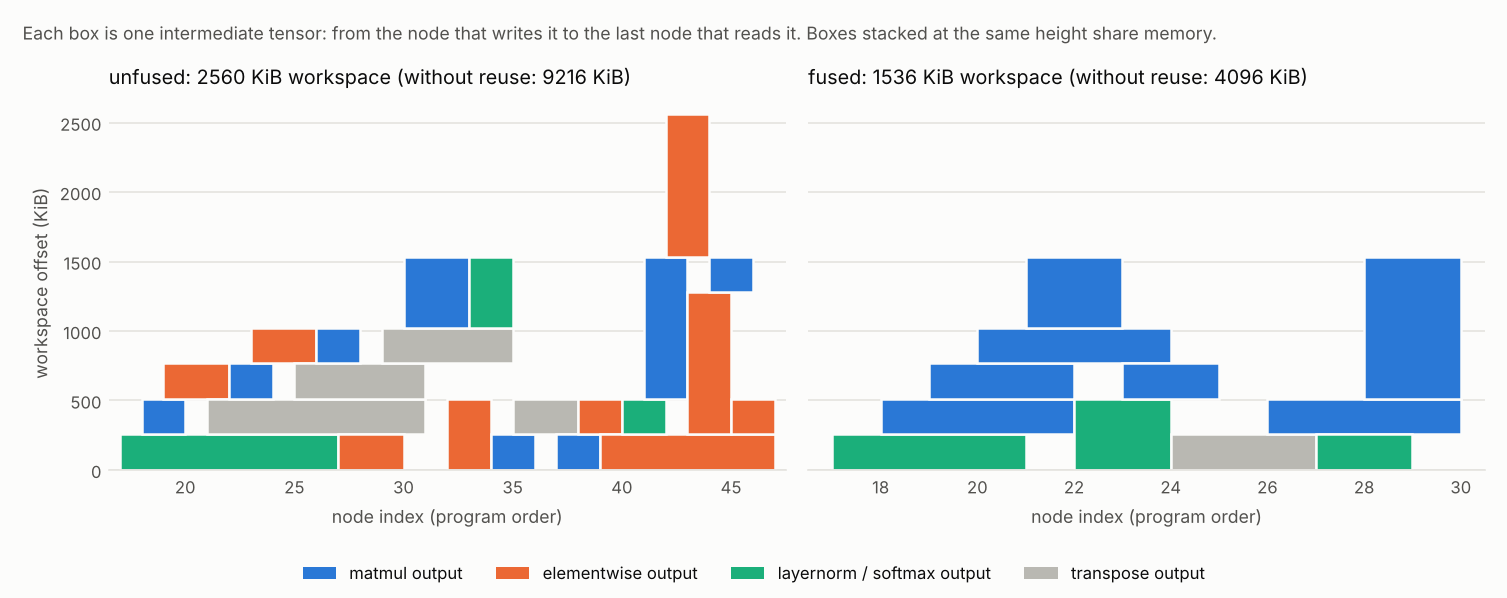
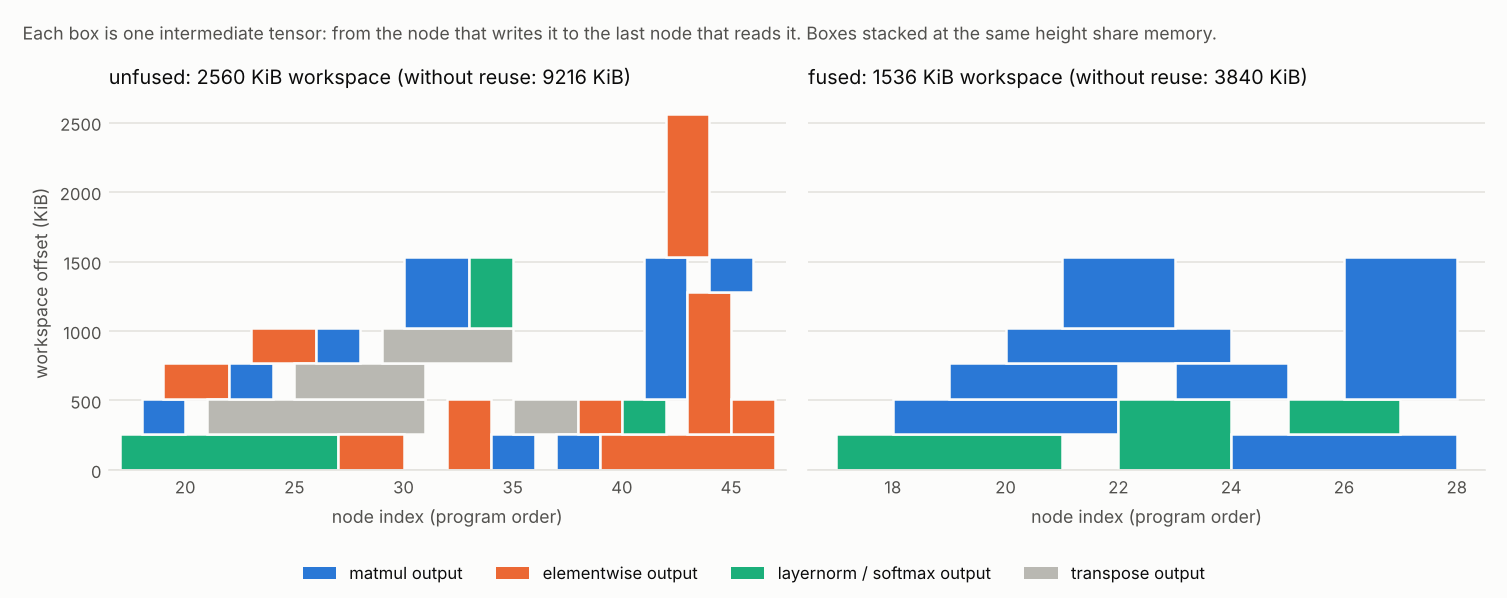
Output-side layout folding: matmul stores its result already permuted (removes attention's head-merge transpose)

diff --git a/tinyfuse/codegen/c_backend.py b/tinyfuse/codegen/c_backend.py
@@ -22,7 +22,7 @@ import numpy as np
 
 from ..ir import Graph, Node
 from ..ops import (ELEMENTWISE_ARITY, broadcast_strides, contiguous_strides,
-                   matmul_operand_shapes, numel)
+                   matmul_operand_shapes, matmul_shape, numel)
 from .memory import MemoryPlan, plan_memory
 
 
@@ -363,12 +363,12 @@ class CodeGen:
         w.open("else if (full)")
         w("#pragma GCC unroll 16")
         w("for (int r = 0; r < MR; ++r)")
-        w("    for (int v = 0; v < NV; ++v) acc[r][v] = *(const tf_vf*)(Cb + (long)(ii + r) * N + jj + v * VW);")
+        w("    for (int v = 0; v < NV; ++v) acc[r][v] = *(const tf_vf*)(Cb + (long)(ii + r) * SCM + jj + v * VW);")
         w.close()
         w.open("else")
         w("memset(tmp, 0, sizeof(tmp));")
         w("for (int r = 0; r < hgt; ++r)")
-        w("    for (int c = 0; c < wdt; ++c) tmp[r * NR + c] = Cb[(long)(ii + r) * N + jj + c];")
+        w("    for (int c = 0; c < wdt; ++c) tmp[r * NR + c] = Cb[(long)(ii + r) * SCM + jj + c];")
         w("for (int r = 0; r < MR; ++r)")
         w("    for (int v = 0; v < NV; ++v) acc[r][v] = *(const tf_vf*)(tmp + r * NR + v * VW);")
         w.close()
@@ -386,13 +386,13 @@ class CodeGen:
         w.open("if (full)")
         w("#pragma GCC unroll 16")
         w("for (int r = 0; r < MR; ++r)")
-        w("    for (int v = 0; v < NV; ++v) *(tf_vf*)(Cb + (long)(ii + r) * N + jj + v * VW) = acc[r][v];")
+        w("    for (int v = 0; v < NV; ++v) *(tf_vf*)(Cb + (long)(ii + r) * SCM + jj + v * VW) = acc[r][v];")
         w.close()
         w.open("else")
         w("for (int r = 0; r < MR; ++r)")
         w("    for (int v = 0; v < NV; ++v) *(tf_vf*)(tmp + r * NR + v * VW) = acc[r][v];")
         w("for (int r = 0; r < hgt; ++r)")
-        w("    for (int c = 0; c < wdt; ++c) Cb[(long)(ii + r) * N + jj + c] = tmp[r * NR + c];")
+        w("    for (int c = 0; c < wdt; ++c) Cb[(long)(ii + r) * SCM + jj + c] = tmp[r * NR + c];")
         w.close()
 
     @staticmethod
@@ -400,7 +400,7 @@ class CodeGen:
         """Apply the epilogue to rows i0..i0+mb, columns [col_lo, col_hi)."""
         w.open("for (int r = 0; r < mb; ++r)")
         w("const long i = i0 + r;")
-        w("float* restrict crow = Cb + i * N;")
+        w("float* restrict crow = Cb + i * SCM;")
         w("#pragma omp simd")
         w.open(f"for (long j = {col_lo}; j < {col_hi}; ++j)")
         in_exprs = [f"eb{k}[{_index(['i', 'j'], st[-2:])}]" for k, st in enumerate(ex_strides)]
@@ -411,14 +411,14 @@ class CodeGen:
         w.close()
         w.close()
 
-    def _mm_serial_body(self, w, batch_dims, a_batch, b_batch, ex_strides, epilogue):
+    def _mm_serial_body(self, w, batch_dims, a_batch, b_batch, c_batch, ex_strides, epilogue):
         BATCH = numel(batch_dims)
         w("float* restrict Bp = scratch;")
         w("float* restrict Ap = scratch + KB * NB;")
         w.open(f"for (long bt = 0; bt < {BATCH}L; ++bt)")
         w(f"const float* restrict Ab = A + {_batch_offset(a_batch, batch_dims)};")
         w(f"const float* restrict Bb = B + {_batch_offset(b_batch, batch_dims)};")
-        w("float* restrict Cb = C + bt * (long)(M * N);")
+        w(f"float* restrict Cb = C + {_batch_offset(c_batch, batch_dims)};")
         for k, st in enumerate(ex_strides):
             w(f"const float* restrict eb{k} = e{k} + {_batch_offset(st[:-2], batch_dims)};")
         w("(void)Ab; (void)Bb;")
@@ -453,7 +453,7 @@ class CodeGen:
         w.close()  # bt
         w.close()  # fn
 
-    def _mm_parallel_body(self, w, BATCH, batch_dims, a_batch, b_batch, ex_strides,
+    def _mm_parallel_body(self, w, BATCH, batch_dims, a_batch, b_batch, c_batch, ex_strides,
                           epilogue, nthreads, grp):
         """Barrier-free OpenMP matmul.  A unit = (batch, column block, group of
         ``grp`` row blocks) is computed start to finish by one thread, which
@@ -472,7 +472,7 @@ class CodeGen:
         w.open("for (int g = 0; g < NG; ++g)")
         w(f"const float* restrict Ab = A + {_batch_offset(a_batch, batch_dims)};")
         w(f"const float* restrict Bb = B + {_batch_offset(b_batch, batch_dims)};")
-        w("float* restrict Cb = C + bt * (long)(M * N);")
+        w(f"float* restrict Cb = C + {_batch_offset(c_batch, batch_dims)};")
         for k, st in enumerate(ex_strides):
             w(f"const float* restrict eb{k} = e{k} + {_batch_offset(st[:-2], batch_dims)};")
         w("(void)Ab; (void)Bb;")
@@ -509,8 +509,17 @@ class CodeGen:
         a, b = n.inputs[0], n.inputs[1]
         extra = n.inputs[2:]
         epilogue = n.attrs.get("epilogue") if n.op == "fused_matmul" else None
-        out = n.shape
         sa, sb = matmul_operand_shapes(n)
+        out = matmul_shape(sa, sb)                    # logical result shape
+        c_perm = n.attrs.get("c_perm") if n.op == "fused_matmul" else None
+        if c_perm:   # result stored permuted: stride of logical dim k in memory
+            stored = list(contiguous_strides(n.shape))
+            c_str = [stored[list(c_perm).index(k)] for k in range(len(out))]
+        else:
+            c_str = list(contiguous_strides(out))
+        assert c_str[-1] == 1
+        SCM = c_str[-2]
+        c_batch = c_str[:-2]
         a_view, b_view = n.attrs.get("a_view"), n.attrs.get("b_view")
         a_str = a_view[1] if a_view else contiguous_strides(sa)
         b_str = b_view[1] if b_view else contiguous_strides(sb)
@@ -549,19 +558,19 @@ class CodeGen:
         w.open(f"static void {name}({', '.join(params)})")
         w(f"enum {{ M = {M}, N = {N}, K = {K}, MB = {MB}, NB = {NB}, KB = {KB}, "
           f"MR = {MR}, NV = {NV}, NR = {NR}, VW = {vw} }};")
-        w(f"const long SAM = {SAM}L, SAK = {SAK}L, SBK = {SBK}L, SBN = {SBN}L;  "
-          f"/* operand strides (views) */")
+        w(f"const long SAM = {SAM}L, SAK = {SAK}L, SBK = {SBK}L, SBN = {SBN}L, SCM = {SCM}L;  "
+          f"/* operand / result strides (views) */")
         if par:
             # group row blocks per unit so B is packed once per group, keeping
             # >= 2 units per thread where possible
             nib, njb = -(-M // MB), -(-N // NB)
             grp = max(1, (BATCH * nib * njb) // (2 * nthreads))
             grp = min(grp, nib)
-            self._mm_parallel_body(w, BATCH, batch_dims, a_batch, b_batch, ex_strides,
+            self._mm_parallel_body(w, BATCH, batch_dims, a_batch, b_batch, c_batch, ex_strides,
                                    epilogue, nthreads, grp)
             w.close()  # fn
         else:
-            self._mm_serial_body(w, batch_dims, a_batch, b_batch, ex_strides, epilogue)
+            self._mm_serial_body(w, batch_dims, a_batch, b_batch, c_batch, ex_strides, epilogue)
         args = [self.buf(a), self.buf(b), self.buf(n)] + [self.buf(e) for e in extra] + ["scratch"]
         return Kernel(name, w.text(), args, scratch=scratch)
 

diff --git a/tests/test_pass_layout_folding.py b/tests/test_pass_layout_folding.py
@@ -86,3 +86,50 @@ def test_folded_matmuls_match_numpy(case, opts, rng):
     xs = [rand(rng, *s) for s in shapes]
     ref = tf.run_graph(tf.trace(fn, *shapes), xs)[0]
     assert_close(f(*xs), ref)
+
+
+def test_output_transpose_folds_into_store():
+    check_pass(lambda a, b: (a @ b).transpose(1, 0, 2), [(2, 3, 4), (2, 4, 5)], [layout_folding],
+               before="""
+graph f(%a: f32[2,3,4], %b: f32[2,4,5]) {
+  %0: f32[2,3,5] = matmul(%a, %b)
+  %1: f32[3,2,5] = transpose(%0) {perm=[1,0,2]}
+  return %1
+}""", after="""
+graph f(%a: f32[2,3,4], %b: f32[2,4,5]) {
+  %0: f32[3,2,5] = fused_matmul(%a, %b) {c_perm=[1,0,2]}
+  return %0
+}""")
+
+
+def test_output_transpose_not_folded_when_last_axis_moves_or_value_shared():
+    g = tf.trace(lambda a, b: (a @ b).T, (3, 4), (4, 5))          # moves the last axis
+    assert layout_folding(g) is False
+    g = tf.trace(lambda a, b: ((a @ b).transpose(1, 0, 2), a @ b), (2, 3, 4), (2, 4, 5))
+    from tinyfuse.passes import common_subexpression_elimination
+    common_subexpression_elimination(g)
+    assert layout_folding(g) is False                             # matmul has 2 users
+
+
+OUT_CASES = [
+    (lambda a, b: (a @ b).transpose(1, 0, 2), [(4, 7, 9), (4, 9, 11)]),
+    (lambda a, b: ((a @ b) * 2.0 + 1.0).transpose(1, 0, 2), [(3, 13, 5), (3, 5, 17)]),
+    (lambda a, b: (a @ b).transpose(1, 0, 2).reshape(13, 3 * 17) @ tf.constant(np.ones((51, 4))),
+     [(3, 13, 5), (3, 5, 17)]),
+    (lambda a, b: (a @ b).transpose(2, 1, 0, 3), [(2, 3, 5, 6), (2, 3, 6, 7)]),
+]
+
+
+@pytest.mark.parametrize("case", range(len(OUT_CASES)))
+@pytest.mark.parametrize("opts", ["default", "tiny", "tiny-parallel"])
+def test_output_folded_matmuls_match_numpy(case, opts, rng):
+    fn, shapes = OUT_CASES[case]
+    tile = MatmulTile(mb=6, nb=VW, kb=4, mr=3, nv=1)
+    o = {"default": None,
+         "tiny": CodegenOptions(vector_width=VW, default_tile=tile),
+         "tiny-parallel": CodegenOptions(vector_width=VW, default_tile=tile, parallel=True,
+                                         max_threads=3)}[opts]
+    f = tf.compile(fn, *shapes, options=o)
+    assert "transpose" not in f.optimized.op_counts()
+    xs = [rand(rng, *s) for s in shapes]
+    assert_close(f(*xs), tf.run_graph(tf.trace(fn, *shapes), xs)[0])

diff --git a/tinyfuse/passes/layout_folding.py b/tinyfuse/passes/layout_folding.py
@@ -16,6 +16,10 @@ Example (attention scores)::
     %s  = fused_matmul(%q, %kt)
  ->
     %s  = fused_matmul(%q, %k) {b_view=f32[4,64,64] strides [64,1,256]}
+
+A transpose of a matmul's *output* that keeps the last axis last is folded
+the other way: the matmul stores its result already permuted (``c_perm``),
+which removes attention's head-merge transpose after ``att @ v``.
 """
 
 from __future__ import annotations
@@ -43,8 +47,35 @@ def resolve_view(x: Node) -> Tuple[Node, View]:
     return x, (tuple(x.shape), contiguous_strides(x.shape))
 
 
-def layout_folding(g: Graph) -> bool:
+def _fold_output_transposes(g: Graph) -> bool:
+    """transpose(fused_matmul) -> fused_matmul that stores its result already
+    permuted, when the permutation keeps the last axis last (so the inner,
+    vectorised stores stay contiguous)."""
+    users = g.users()
+    outs = g.output_ids()
     changed = False
+    for i, t in enumerate(g.nodes):
+        if t.op != "transpose":
+            continue
+        m = t.inputs[0]
+        perm = tuple(t.attrs["perm"])
+        if m.op not in ("matmul", "fused_matmul") or m.id in outs or m.attrs.get("c_perm"):
+            continue
+        if {u.id for u in users.get(m.id, [])} != {t.id} or perm[-1] != len(perm) - 1:
+            continue
+        attrs = dict(m.attrs)
+        attrs.setdefault("epilogue", None)
+        attrs["c_perm"] = perm
+        new = Node("fused_matmul", list(m.inputs), attrs)
+        assert new.shape == t.shape
+        g.nodes[i] = new
+        g.replace_all_uses(t, new)
+        changed = True
+    return changed
+
+
+def layout_folding(g: Graph) -> bool:
+    changed = _fold_output_transposes(g)
     for i, n in enumerate(g.nodes):
         if n.op not in ("matmul", "fused_matmul"):
             continue

diff --git a/tinyfuse/ops.py b/tinyfuse/ops.py
@@ -410,10 +410,19 @@ def apply_view(x: np.ndarray, view) -> np.ndarray:
                                            strides=[st * x.itemsize for st in strides])
 
 
+def _check_c_perm(perm, rank):
+    if perm is None:
+        return
+    if sorted(perm) != list(range(rank)) or perm[-1] != rank - 1:
+        raise ShapeError(f"c_perm {perm} must permute {rank} dims and keep the last one last")
+
+
 def _fused_mm_infer(s, a):
     sa = view_shape(s[0], a.get("a_view"))
     sb = view_shape(s[1], a.get("b_view"))
     out = matmul_shape(sa, sb)
+    perm = a.get("c_perm")
+    _check_c_perm(perm, len(out))
     ep = a.get("epilogue")
     if ep is not None:
         check_program(ep, len(s) - 2, allow_acc=True)
@@ -422,19 +431,19 @@ def _fused_mm_infer(s, a):
                 raise ShapeError(f"epilogue input {extra} does not broadcast to {out}")
     elif len(s) != 2:
         raise ShapeError("fused_matmul without epilogue takes exactly 2 inputs")
-    return out
+    return tuple(out[p] for p in perm) if perm else out
 
 
 def _fused_mm_eval(xs, a):
     acc = _f32(np.matmul(apply_view(xs[0], a.get("a_view")), apply_view(xs[1], a.get("b_view"))))
     ep = a.get("epilogue")
-    if ep is None:
-        return acc
-    return eval_program(ep, xs[2:], acc.shape, acc=acc)
+    res = acc if ep is None else eval_program(ep, xs[2:], acc.shape, acc=acc)
+    perm = a.get("c_perm")
+    return np.ascontiguousarray(np.transpose(res, perm)) if perm else res
 
 
 register(OpDef("fused_matmul", None, _fused_mm_infer, _fused_mm_eval,
-               attr_names=("epilogue", "a_view", "b_view")))
+               attr_names=("epilogue", "a_view", "b_view", "c_perm")))
 
 
 def _fused_reduce_infer(s, a):

diff --git a/tests/test_models.py b/tests/test_models.py
@@ -53,8 +53,9 @@ def test_transformer_fused_structure():
     # their head-split operands through strided views)
     assert c["fused_matmul"] == 8 and "matmul" not in c
     assert c.get("fused_elementwise", 0) == 0
-    # only the head-merge transpose after att@v is still materialised
-    assert c["transpose"] == 1
+    # no layout op is materialised: head split folded into operand views,
+    # head merge folded into att@v's store
+    assert "transpose" not in c and "reshape" not in c
     assert not any(op in c for op in ("add", "mul", "gelu"))
     unf = tf.compile(blk, pipeline="unfused", **sh)
     assert unf.module.gen.plan.ws_size > f.module.gen.plan.ws_size

diff --git a/tinyfuse/passes/matmul_fusion.py b/tinyfuse/passes/matmul_fusion.py
@@ -27,8 +27,8 @@ def matmul_epilogue_fusion(g: Graph) -> bool:
     replace: Dict[int, Node] = {}   # last chain node -> fused node
     removed = set()
     for m in g.nodes:
-        if m.op not in ("matmul", "fused_matmul") or m.id in removed:
-            continue
+        if m.op not in ("matmul", "fused_matmul") or m.id in removed or m.attrs.get("c_perm"):
+            continue   # an epilogue on a permuted store would see permuted shapes
         chain = []
         cur = m
         while cur.id not in outs:

diff --git a/tinyfuse/ir.py b/tinyfuse/ir.py
@@ -193,6 +193,9 @@ def _fmt_attrs(n: Node) -> str:
         elif k in ("program", "epilogue"):
             if v is not None:
                 parts.append(f"{k}=[{format_program(v)}]")
+        elif k == "c_perm":
+            if v is not None:
+                parts.append(f"c_perm=[{','.join(map(str, v))}]")
         elif k in ("a_view", "b_view"):
             if v is not None:
                 shp, st = v

diff --git a/README.md b/README.md
@@ -43,7 +43,7 @@ print(f.source)      # the generated C
 y = f(x, w1, b1, w2, b2)   # NumPy arrays in, NumPy arrays out
 ```
 
-Run the tests (331 of them, about 20 seconds; the first run spends most of
+Run the tests (345 of them, about 20 seconds; the first run spends most of
 that compiling C):
 
 ```bash
@@ -115,10 +115,11 @@ passes and a layout pass:
 * **Layout folding.** A transpose, or a reshape of contiguous data, is just a
   strided view of its input. When one feeds a matmul, the matmul reads the
   original buffer through those strides during packing, and the transpose
-  kernel disappears. In attention that removes the q/k/v head splits and `k^T`.
+  kernel disappears. A transpose of a matmul's *output* folds the other way:
+  the matmul stores its result already permuted. In attention that removes
+  every layout op: the q/k/v head splits, `k^T`, and the head merge.
 
-On the transformer block this takes 29 ops down to 13, and 25 kernels down
-to 12:
+On the transformer block this takes 29 ops and 25 kernels down to 11 of each:
 
 ![Transformer block graph before and after fusion](docs/img/fusion_graph.png)
 
@@ -145,13 +146,15 @@ graph mlp(%x: f32[32,64], %w1: f32[64,128], %b1: f32[128], %w2: f32[128,10], %b2
 }
 ```
 
-In the transformer the residual add is absorbed too, and the attention scores
-read q and `k^T` straight out of the projection outputs:
+In the transformer the residual add is absorbed too. The attention scores
+read q and `k^T` straight out of the projection outputs, and `att @ v` writes
+its result directly in the merged-heads layout:
 
 ```
 %4: f32[4,64,64] = fused_matmul(%1, %2) {a_view=f32[4,64,64] strides [64,256,1],
                      b_view=f32[4,64,64] strides [64,1,256], epilogue=[t0=mul(acc,0.125)]}
-%9: f32[64,256]  = fused_matmul(%8, %wo, %bo, %x) {epilogue=[t0=add(acc,in0); t1=add(in1,t0)]}
+%6: f32[64,4,64] = fused_matmul(%5, %3) {b_view=f32[4,64,64] strides [64,256,1], c_perm=[1,0,2]}
+%7: f32[64,256]  = fused_matmul(%6, %wo, %bo, %x) {..., epilogue=[t0=add(acc,in0); t1=add(in1,t0)]}
 ```
 
 Reductions mean you can write your own normalization layers. An RMSNorm:
@@ -173,8 +176,9 @@ compiles to three loops: one fused reduction and two elementwise kernels.
 computing the `rsqrt` once per element instead of once per row.
 
 Layout folding is correct and tested, but I couldn't measure a speedup from
-it: the transposes were only about 2% of the runtime, and reading `k^T`
-through a strided gather while packing costs some of that back.
+it (an A/B with and without it stays within about 2% at every size). The
+transposes were only about 2% of the runtime, and reading `k^T` through a
+strided gather while packing costs some of that back.
 
 ### 3. Generating C
 
@@ -388,9 +392,8 @@ with `rtol = atol = 1e-4`.
   Reductions, softmax and layernorm only work over the last axis, and batched
   matmul needs identical batch dimensions.
 * Fusion is local. Layernorm and softmax are never fused with their
-  neighbours, and there is nothing like flash attention. Transposes that feed a
-  matmul are folded away, but a transpose of a matmul's *output* (the head
-  merge after `att @ v`) is still materialized.
+  neighbours, and there is nothing like flash attention. Transposes are folded
+  into matmuls only; a transpose anywhere else is a copy kernel.
 * The matmul is good but not BLAS-grade everywhere: no prefetching, no
   assembly, and weights are re-packed on every call even when they are
   constants. It is tuned for AVX-512; AVX2 machines run the same code with

diff --git a/DESIGN.md b/DESIGN.md
@@ -125,9 +125,15 @@ nothing.
   the strides. Shape inference checks that a view stays inside its base buffer,
   and the interpreter applies views with `as_strided`. A reshape of
   non-contiguous data (for example after the head-merge transpose) is not a
-  strided view, so folding stops there. Measured effect on the transformer
-  block: 19 → 13 ops and 15 → 12 kernels, but no measurable runtime change
-  (±1%). The transposes were about 2% of runtime, and the strided gather for
+  strided view, so folding stops there. A transpose *of a matmul's output*
+  whose permutation keeps the last axis last is folded the other way. The
+  matmul gets `c_perm` and stores each logical (batch, row) through the
+  permuted row and batch strides; columns stay contiguous, so the vector
+  stores are unchanged. Epilogues are evaluated in logical coordinates
+  before the permuted store. A matmul that already has `c_perm` is not
+  extended by later epilogue fusion. Measured effect on the transformer
+  block: 19 → 11 ops and 15 → 11 kernels (no layout ops left), but no
+  measurable runtime change (within about 2%). The transposes were about 2% of runtime, and the strided gather for
   `k^T` during packing costs some of that back.
 * **Order.** Matmul fusion runs first so that bias and activation end up in the
   matmul epilogue rather than in a separate fused-elementwise kernel. The matmul
